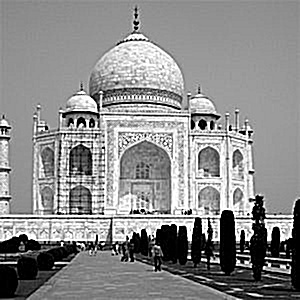
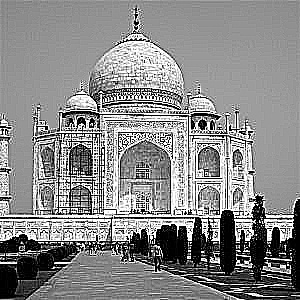
HW4

diff --git a/HW3/main.py b/HW3/main.py
@@ -16,11 +16,6 @@ def convolve2d(image, kernel):
             output[i-pad_h, j-pad_w] = np.sum(tmp * kernel)
     return output
 
-def gaussian_kernel_2d(ksize, sigma):
-    ax = np.linspace(-(ksize // 2), ksize // 2, ksize)
-    xx, yy = np.meshgrid(ax, ax)
-    kernel = np.exp(-(xx**2 + yy**2) / (2 * sigma**2))
-    return kernel / np.sum(kernel)
 
 def part1(file):
     path = './HW3/test_picture/'
@@ -36,15 +31,14 @@ def part1(file):
     ])
     img = cv2.imread(os.path.join(path, file), cv2.IMREAD_GRAYSCALE)
     img = np.float32(img)
-    gaussian_kernel = gaussian_kernel_2d(3, 1)
-    img_blur = convolve2d(img, gaussian_kernel)
-    img_gray_sharpening = convolve2d(img_blur, laplacian_kernel)
+    
+    img_gray_sharpening = convolve2d(img, laplacian_kernel)
     img_gray_sharpening = img - img_gray_sharpening
     img_gray_sharpening = np.clip(img_gray_sharpening, 0, 255).astype(np.uint8)
     result_file = 'spatial_laplacian1_' + file
     cv2.imwrite(os.path.join('./HW3', result_file), img_gray_sharpening)
 
-    img_gray_sharpening = convolve2d(img_blur, laplacian_kernel2)
+    img_gray_sharpening = convolve2d(img, laplacian_kernel2)
     img_gray_sharpening = img - img_gray_sharpening
     img_gray_sharpening = np.clip(img_gray_sharpening, 0, 255).astype(np.uint8)
     result_file = 'spatial_laplacian2_' + file
@@ -84,7 +78,7 @@ def part2(k, file):
     result_file = 'laplacian_frequency_' + file
     cv2.imwrite(os.path.join('./HW3', result_file), sharpened_img)
 
-#part2(8e-6, 'woman.jpg')
-#part2(5e-6, 'taj.jpg')
+part2(8e-6, 'woman.jpg')
+part2(5e-6, 'taj.jpg')
 part1('woman.jpg')
 part1('taj.jpg')
